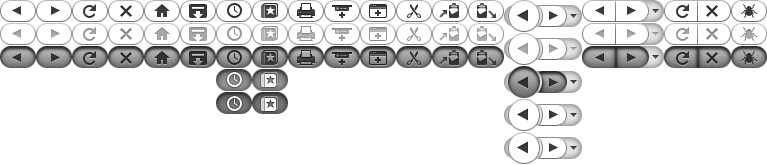
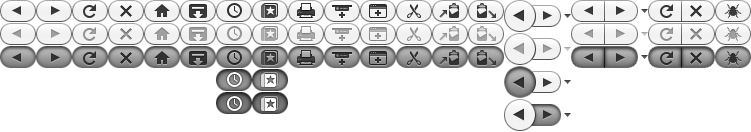
bug 494925: incorporate removal of keyhole etch from Firefox 3.5 theme for Mac OS X; images by Sean Martell

diff --git a/client/chrome/skin/mac3.1/personas.css b/client/chrome/skin/mac3.1/personas.css
@@ -106,6 +106,8 @@
 #main-window[persona] #forward-button,
 #main-window[persona] #reload-button,
 #main-window[persona] #stop-button,
+/* See below for special treatment of the Home button. */
+/* #main-window[persona] #home-button, */
 #main-window[persona] #print-button,
 #main-window[persona] #downloads-button,
 #main-window[persona] #history-button,
@@ -119,12 +121,35 @@
   list-style-image: url("chrome://personas/skin/Toolbar.png");
 }
 
+#main-window[persona] #back-button[chromedir="rtl"],
+#main-window[persona] #forward-button[chromedir="rtl"],
+#main-window[persona] #reload-button[chromedir="rtl"],
+#main-window[persona] #stop-button[chromedir="rtl"],
+/* See below for special treatment of the Home button. */
+/* #main-window[persona] #home-button[chromedir="rtl"], */
+#main-window[persona] #print-button[chromedir="rtl"],
+#main-window[persona] #downloads-button[chromedir="rtl"],
+#main-window[persona] #history-button[chromedir="rtl"],
+#main-window[persona] #bookmarks-button[chromedir="rtl"],
+#main-window[persona] #new-tab-button[chromedir="rtl"],
+#main-window[persona] #new-window-button[chromedir="rtl"],
+#main-window[persona] #cut-button[chromedir="rtl"],
+#main-window[persona] #copy-button[chromedir="rtl"],
+#main-window[persona] #paste-button[chromedir="rtl"],
+#main-window[persona] #back-forward-dropmarker[chromedir="rtl"] {
+  list-style-image: url("chrome://personas/skin/Toolbar-rtl.png");
+}
+
 /* The Home button gets styled specially when placed on the Bookmarks Toolbar.
  * There it takes on the appearance of a bookmark.  And we don't want to hork
  * that.  So here we only apply the persona-specific style when the button
  * is not a bookmark item. */
 #main-window[persona] #home-button:not(.bookmark-item) {
   list-style-image: url("chrome://personas/skin/Toolbar.png");
+}
+
+#main-window[persona] #home-button[chromedir="rtl"]:not(.bookmark-item) {
+  list-style-image: url("chrome://personas/skin/Toolbar-rtl.png");
 }
 
 /* Eliminate text shadows from toolbarbutton, tab, and statusbar text so it
